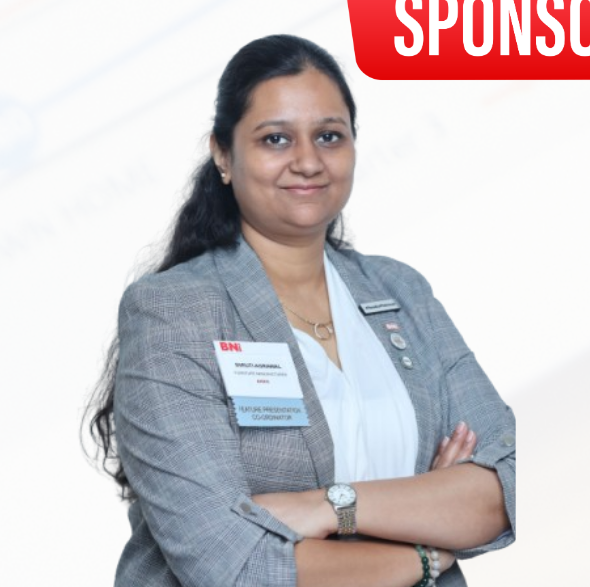
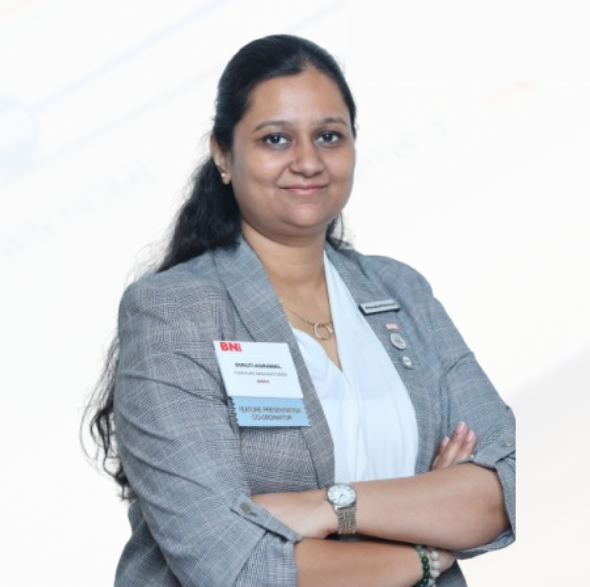
f

Changed region(s): [[0.5797, 0.0, 1.0, 0.1533]]

diff --git a/src/app/teams/[team]/TeamPageClient.tsx b/src/app/teams/[team]/TeamPageClient.tsx
@@ -421,46 +421,50 @@ export default function TeamPage({ params }: { params: Promise<{ team: string }>
             {/* The Large Caption Card (Owner) */}
             <div className="lg:col-span-1 lg:row-span-2 glass-card border border-white/10 bg-white/[0.02] relative overflow-hidden group hover:border-white/20 transition-all duration-500 hover:shadow-[0_20px_60px_rgba(0,0,0,0.5)] flex flex-col">
               {/* Dynamic top gradient bar */}
-              <div className="absolute top-0 left-0 w-full h-1" style={{ background: team.color, boxShadow: `0 0 20px ${team.color}` }} />
-              
+              <div className="absolute top-0 left-0 w-full h-1 z-20" style={{ background: team.color, boxShadow: `0 0 20px ${team.color}` }} />
+
+              {/* Full-size portrait image (matches source aspect ratio so nothing gets cropped) */}
+              <div className="relative w-full aspect-[4/5] overflow-hidden flex-shrink-0">
+                {team.owner.image ? (
+                  <Image src={team.owner.image} alt={team.owner.name} fill sizes="(max-width: 1024px) 100vw, 25vw" className="object-cover object-top group-hover:scale-105 transition-transform duration-700" />
+                ) : (
+                  <div className="absolute inset-0 flex items-center justify-center" style={{ background: `${team.color}15` }}>
+                    <span className="font-cinzel text-7xl font-light text-white/90 drop-shadow-[0_0_15px_rgba(255,255,255,0.3)]">
+                      {team.owner.name.split(" ").map(n => n[0]).join("")}
+                    </span>
+                  </div>
+                )}
+
+                {/* Small Owner Tag overlaid at the top of the image */}
+                <div className="absolute top-6 left-1/2 -translate-x-1/2 font-montserrat text-[9px] font-bold tracking-[0.3em] text-white/70 uppercase flex items-center gap-3 z-10">
+                  <div className="w-8 h-px bg-white/40" />
+                  Team Owner
+                  <div className="w-8 h-px bg-white/40" />
+                </div>
+
+                {/* Fade into card body so the pill + text below sit on a clean surface */}
+                <div className="absolute inset-x-0 bottom-0 h-20 bg-gradient-to-t from-[#0B1120] via-[#0B1120]/40 to-transparent pointer-events-none" />
+
+                {/* Owner Pill straddling the image / body boundary */}
+                <div className="absolute -bottom-3 left-1/2 -translate-x-1/2 bg-[#050B0A] border px-4 py-1.5 rounded-full z-20 shadow-[0_5px_15px_rgba(0,0,0,0.8)]" style={{ borderColor: team.color }}>
+                  <span className="font-montserrat text-[9px] font-bold tracking-[0.25em] uppercase whitespace-nowrap" style={{ color: team.color }}>Owner</span>
+                </div>
+              </div>
+
               {/* Ambient Glow */}
               <div className="absolute inset-0 opacity-10 group-hover:opacity-20 transition-opacity duration-500 pointer-events-none" style={{ background: `radial-gradient(circle at 50% 30%, ${team.color}, transparent 70%)` }} />
-              
-              <div className="p-8 flex-1 flex flex-col items-center text-center relative z-10">
-                {/* Small Owner Tag at the very top */}
-                <div className="font-montserrat text-[9px] font-bold tracking-[0.3em] text-white/40 mb-12 uppercase flex items-center gap-3">
-                  <div className="w-8 h-px bg-white/20" />
-                  Team Owner
-                  <div className="w-8 h-px bg-white/20" />
-                </div>
-                
-                {/* Avatar */}
-                <div className="w-48 h-48 rounded-full mx-auto mb-10 border border-white/20 p-1.5 relative group-hover:scale-105 transition-transform duration-500">
-                  <div className="w-full h-full rounded-full overflow-hidden relative shadow-inner" style={{ background: `${team.color}15`, boxShadow: `inset 0 0 30px ${team.color}40` }}>
-                    {team.owner.image ? (
-                      <Image src={team.owner.image} alt={team.owner.name} fill sizes="192px" className="object-cover object-top" />
-                    ) : (
-                      <div className="absolute inset-0 flex items-center justify-center font-cinzel text-6xl font-light text-white/90 drop-shadow-[0_0_15px_rgba(255,255,255,0.3)]">
-                        {team.owner.name.split(" ").map(n => n[0]).join("")}
-                      </div>
-                    )}
-                  </div>
-                  {/* Owner Pill on Avatar */}
-                  <div className="absolute -bottom-3 left-1/2 -translate-x-1/2 bg-[#050B0A] border px-4 py-1.5 rounded-full z-20 shadow-[0_5px_15px_rgba(0,0,0,0.8)]" style={{ borderColor: team.color }}>
-                    <span className="font-montserrat text-[9px] font-bold tracking-[0.25em] uppercase whitespace-nowrap" style={{ color: team.color }}>Owner</span>
-                  </div>
-                </div>
-                
+
+              <div className="px-8 pb-8 pt-8 flex-1 flex flex-col items-center text-center relative z-10">
                 {/* Info */}
                 <h3 className="font-cinzel text-white text-3xl mb-3 group-hover:text-white transition-colors drop-shadow-md">{team.owner.name}</h3>
                 <div className="font-montserrat text-[10px] uppercase tracking-[0.2em] mb-8" style={{ color: team.color }}>{team.owner.company.name}</div>
-                
+
                 <div className="w-full h-px bg-gradient-to-r from-transparent via-white/15 to-transparent mb-8" />
-                
+
                 <p className="font-montserrat text-white/50 text-xs italic leading-[1.8] mb-auto px-4">
                   "{team.owner.quote}"
                 </p>
-                
+
                 <Link href={`/owners/${team.owner.id}`} className="mt-10 inline-flex items-center gap-3 font-montserrat text-[10px] uppercase tracking-[0.2em] text-white hover:text-white/70 transition-colors bg-white/5 hover:bg-white/10 px-6 py-3 rounded-full border border-white/10 group-hover:border-white/30">
                   View Full Profile <ChevronRight className="w-3 h-3" />
                 </Link>

diff --git a/src/app/team-owners/page.tsx b/src/app/team-owners/page.tsx
@@ -1,10 +1,11 @@
 "use client";
 import { useEffect, useRef } from "react";
+import Image from "next/image";
 import gsap from "gsap";
 import { ScrollTrigger } from "gsap/ScrollTrigger";
 import SplitType from "split-type";
 import { teams } from "@/lib/data";
-import { Quote, Briefcase, Building2, MapPin, Users, Target } from "lucide-react";
+import { Quote, Briefcase, Building2, MapPin, Target } from "lucide-react";
 
 gsap.registerPlugin(ScrollTrigger);
 
@@ -20,6 +21,8 @@ export default function TeamOwnersPage() {
           opacity: 0, y: 50, rotateX: -90, stagger: 0.05, duration: 1.2, ease: "back.out(1.5)"
         });
       }
+
+      gsap.from(".h-title-owners", { opacity: 0, y: 30, duration: 0.9, ease: "back.out(1.4)", delay: 0.3 });
 
       gsap.from(".owner-card", {
         scrollTrigger: { trigger: ".owners-grid", start: "top 80%" },
@@ -79,9 +82,9 @@ export default function TeamOwnersPage() {
              <div className="w-1.5 h-1.5 rounded-full bg-[#D4AF37] animate-pulse" />
              <span className="font-montserrat text-[#D4AF37]/90 text-[9px] font-bold tracking-[0.4em] uppercase">League Visionaries</span>
           </div>
-          <h1 ref={titleRef} className="font-cinzel font-bold text-white text-5xl md:text-7xl mb-6 tracking-wider uppercase leading-tight" style={{ clipPath: 'polygon(0 0, 100% 0, 100% 100%, 0% 100%)' }}>
-            The Team<br/>
-            <span className="text-transparent bg-clip-text bg-gradient-to-r from-[#D4AF37] via-[#FFF3B0] to-[#AA7C11]">
+          <h1 className="font-cinzel font-bold text-white text-5xl md:text-7xl mb-6 tracking-wider uppercase leading-tight" style={{ clipPath: 'polygon(0 0, 100% 0, 100% 100%, 0% 100%)' }}>
+            <span ref={titleRef}>The Team</span><br/>
+            <span className="h-title-owners text-transparent bg-clip-text bg-gradient-to-r from-[#D4AF37] via-[#FFF3B0] to-[#AA7C11]">
               Owners
             </span>
           </h1>
@@ -106,11 +109,15 @@ export default function TeamOwnersPage() {
                   {/* Color Accent Line */}
                   <div className="absolute left-0 top-0 bottom-0 w-1.5" style={{ backgroundColor: team.color }} />
                   {/* Background Glow */}
-                  <div className="absolute inset-0 opacity-20 transition-opacity duration-500 group-hover:opacity-40" style={{ background: `radial-gradient(circle at 50% 50%, ${team.color}, transparent 60%)` }} />
-                  {/* User Placeholder Icon */}
-                  <div className="w-32 h-32 rounded-full border border-white/10 bg-white/5 flex items-center justify-center backdrop-blur-sm relative z-10">
-                    <Users className="w-12 h-12 text-white/20" />
-                  </div>
+                  <div className="absolute inset-0 opacity-20 transition-opacity duration-500 group-hover:opacity-40 pointer-events-none" style={{ background: `radial-gradient(circle at 50% 50%, ${team.color}, transparent 60%)` }} />
+                  {/* Owner Photo */}
+                  {team.owner.image ? (
+                    <Image src={team.owner.image} alt={team.owner.name} fill sizes="(max-width: 1024px) 100vw, 40vw" className="object-cover object-top relative z-10 group-hover:scale-105 transition-transform duration-700" />
+                  ) : (
+                    <div className="w-32 h-32 rounded-full border border-white/10 bg-white/5 flex items-center justify-center backdrop-blur-sm relative z-10">
+                      <span className="font-cinzel text-4xl font-light text-white/30">{team.owner.name.split(" ").map(n => n[0]).join("")}</span>
+                    </div>
+                  )}
                 </div>
 
                 {/* Right Side: Content */}
@@ -133,7 +140,7 @@ export default function TeamOwnersPage() {
                       {team.owner.name.toUpperCase()}
                     </h2>
                     <div className="font-montserrat text-sm tracking-widest uppercase" style={{ color: team.color }}>
-                      {team.fullName} - {team.name}
+                      {team.fullName}
                     </div>
                   </div>
 

diff --git a/src/app/blog/page.tsx b/src/app/blog/page.tsx
@@ -6,7 +6,6 @@ import { ArrowRight, BookOpen, PenLine, Tag } from "lucide-react";
 import { blogPosts, blogCategories, teams } from "@/lib/data";
 import gsap from "gsap";
 import { ScrollTrigger } from "gsap/ScrollTrigger";
-import SplitType from "split-type";
 import PageHero from "@/components/PageHero";
 
 gsap.registerPlugin(ScrollTrigger);
@@ -24,12 +23,10 @@ export default function BlogPage() {
 
   useEffect(() => {
     const ctx = gsap.context(() => {
-      const title = new SplitType(".h-title-split", { types: "chars" });
-
       const tl = gsap.timeline({ defaults: { ease: "power3.out" } });
-      tl.from(".h-badge",   { opacity: 0, y: -20, duration: 0.8 })
-        .from(title.chars,  { opacity: 0, y: 50, stagger: 0.05, duration: 0.8, ease: "back.out(1.4)" }, "-=0.4")
-        .from(".h-sub",     { opacity: 0, y: 20, duration: 0.8 }, "-=0.6");
+      tl.from(".h-badge",         { opacity: 0, y: -20, duration: 0.8 })
+        .from(".h-title-gradient", { opacity: 0, y: 40, duration: 0.9, ease: "back.out(1.4)" }, "-=0.4")
+        .from(".h-sub",           { opacity: 0, y: 20, duration: 0.8 }, "-=0.6");
 
       gsap.utils.toArray<Element>(".sr").forEach((el) => {
         gsap.fromTo(el,
@@ -52,7 +49,7 @@ export default function BlogPage() {
     <div ref={containerRef} className="pt-24 bg-[#000000] min-h-screen overflow-x-hidden">
 
       {/* ── HERO ── */}
-      <PageHero backgroundImage="/images/luxury_boardroom.png" layout="centered" className="min-h-[65vh] justify-center px-6 sm:px-10 lg:px-16 py-16 sm:py-28">
+      <PageHero backgroundImage="/images/hero_arena.png" layout="centered" className="min-h-[65vh] justify-center px-6 sm:px-10 lg:px-16 py-16 sm:py-28">
         <div className="max-w-4xl mx-auto text-center relative z-10">
           <div className="h-badge inline-flex items-center gap-3 mb-8 relative px-5 py-2.5">
             <div className="absolute inset-0 rounded-full border border-[#D4AF37]/20 bg-[#D4AF37]/6 backdrop-blur-xl" />
@@ -63,7 +60,7 @@ export default function BlogPage() {
           <h1 className="font-cinzel font-bold text-white mb-8 leading-none">
             <span className="block font-montserrat text-white/55 text-xs sm:text-sm tracking-[0.5em] uppercase mb-2">The Arena</span>
             <span
-              className="h-title-split block"
+              className="h-title-gradient block"
               style={{
                 fontSize: "clamp(64px, 16vw, 160px)",
                 background: "linear-gradient(135deg, #F3E5AB 0%, #D4AF37 40%, #C9921A 70%, #F0D060 100%)",

diff --git a/src/app/rules/page.tsx b/src/app/rules/page.tsx
@@ -17,7 +17,6 @@ import {
 } from "lucide-react";
 import gsap from "gsap";
 import { ScrollTrigger } from "gsap/ScrollTrigger";
-import SplitType from "split-type";
 
 gsap.registerPlugin(ScrollTrigger);
 
@@ -47,12 +46,11 @@ export default function RulesPage() {
 
   useEffect(() => {
     const ctx = gsap.context(() => {
-      const title = new SplitType(".h-title-split", { types: "chars" });
       const tl = gsap.timeline({ defaults: { ease: "power3.out" } });
-      tl.from(".h-badge",   { opacity: 0, y: -20, duration: 0.8 })
-        .from(title.chars,  { opacity: 0, y: 50, stagger: 0.04, duration: 0.7, ease: "back.out(1.4)" }, "-=0.4")
-        .from(".h-sub",     { opacity: 0, y: 20, duration: 0.8 }, "-=0.6")
-        .from(".h-links",   { opacity: 0, y: 20, duration: 0.8 }, "-=0.6");
+      tl.from(".h-badge",          { opacity: 0, y: -20, duration: 0.8 })
+        .from(".h-title-gradient", { opacity: 0, y: 40, duration: 0.9, ease: "back.out(1.4)" }, "-=0.4")
+        .from(".h-sub",            { opacity: 0, y: 20, duration: 0.8 }, "-=0.6")
+        .from(".h-links",          { opacity: 0, y: 20, duration: 0.8 }, "-=0.6");
 
       // Scroll reveals
       gsap.utils.toArray<Element>(".sr").forEach((el) => {
@@ -100,7 +98,7 @@ export default function RulesPage() {
           <h1 className="font-cinzel font-bold text-white mb-8 leading-none">
             <span className="block text-white/55 font-montserrat text-xs sm:text-sm tracking-[0.5em] uppercase mb-2">Tournament</span>
             <span
-              className="h-title-split block"
+              className="h-title-gradient block"
               style={{
                 fontSize: "clamp(52px, 13vw, 130px)",
                 background: "linear-gradient(135deg, #F3E5AB 0%, #D4AF37 40%, #C9921A 70%, #F0D060 100%)",

diff --git a/src/app/partners/page.tsx b/src/app/partners/page.tsx
@@ -5,7 +5,6 @@ import { ArrowRight, Users, BarChart2, Trophy, Handshake, Megaphone, Target, Glo
 import { partners } from "@/lib/data";
 import gsap from "gsap";
 import { ScrollTrigger } from "gsap/ScrollTrigger";
-import SplitType from "split-type";
 import PageHero from "@/components/PageHero";
 
 gsap.registerPlugin(ScrollTrigger);
@@ -15,11 +14,10 @@ export default function PartnersPage() {
 
   useEffect(() => {
     const ctx = gsap.context(() => {
-      const title = new SplitType(".h-title-split", { types: "chars" });
       const tl = gsap.timeline({ defaults: { ease: "power3.out" } });
-      tl.from(".h-badge",  { opacity: 0, y: -20, duration: 0.8 })
-        .from(title.chars, { opacity: 0, y: 50, stagger: 0.05, duration: 0.7, ease: "back.out(1.4)" }, "-=0.4")
-        .from(".h-sub",    { opacity: 0, y: 20, duration: 0.8 }, "-=0.6");
+      tl.from(".h-badge",          { opacity: 0, y: -20, duration: 0.8 })
+        .from(".h-title-gradient", { opacity: 0, y: 40, duration: 0.9, ease: "back.out(1.4)" }, "-=0.4")
+        .from(".h-sub",            { opacity: 0, y: 20, duration: 0.8 }, "-=0.6");
 
       // Scroll reveals
       gsap.utils.toArray<Element>(".sr").forEach((el) => {
@@ -60,7 +58,7 @@ export default function PartnersPage() {
           <h1 className="font-cinzel font-bold text-white mb-8 leading-none">
             <span className="block text-white/55 font-montserrat text-xs sm:text-sm tracking-[0.5em] uppercase mb-2">Our</span>
             <span
-              className="h-title-split block"
+              className="h-title-gradient block"
               style={{
                 fontSize: "clamp(56px, 14vw, 140px)",
                 background: "linear-gradient(135deg, #F3E5AB 0%, #D4AF37 40%, #C9921A 70%, #F0D060 100%)",

diff --git a/src/app/points/page.tsx b/src/app/points/page.tsx
@@ -13,7 +13,6 @@ import {
 } from "lucide-react";
 import gsap from "gsap";
 import { ScrollTrigger } from "gsap/ScrollTrigger";
-import SplitType from "split-type";
 import PageHero from "@/components/PageHero";
 
 gsap.registerPlugin(ScrollTrigger);
@@ -176,11 +175,10 @@ export default function PointsPage() {
 
   useEffect(() => {
     const ctx = gsap.context(() => {
-      const title = new SplitType(".h-title-split", { types: "chars" });
       const tl = gsap.timeline({ defaults: { ease: "power3.out" } });
-      tl.from(".h-badge", { opacity: 0, y: -20, duration: 0.8 })
-        .from(title.chars, { opacity: 0, y: 50, stagger: 0.04, duration: 0.7, ease: "back.out(1.4)" }, "-=0.4")
-        .from(".h-sub",   { opacity: 0, y: 20, duration: 0.8 }, "-=0.6");
+      tl.from(".h-badge",          { opacity: 0, y: -20, duration: 0.8 })
+        .from(".h-title-gradient", { opacity: 0, y: 40, duration: 0.9, ease: "back.out(1.4)" }, "-=0.4")
+        .from(".h-sub",            { opacity: 0, y: 20, duration: 0.8 }, "-=0.6");
 
       gsap.utils.toArray<Element>(".sr").forEach((el) => {
         gsap.fromTo(el,
@@ -214,7 +212,7 @@ export default function PointsPage() {
           <h1 className="font-cinzel font-bold text-white mb-8 leading-none">
             <span className="block text-white/55 font-montserrat text-xs sm:text-sm tracking-[0.5em] uppercase mb-2">Scoring</span>
             <span
-              className="h-title-split block"
+              className="h-title-gradient block"
               style={{
                 fontSize: "clamp(52px, 13vw, 130px)",
                 background: "linear-gradient(135deg, #F3E5AB 0%, #D4AF37 40%, #C9921A 70%, #F0D060 100%)",

diff --git a/src/app/gallery/page.tsx b/src/app/gallery/page.tsx
@@ -6,7 +6,6 @@ import { ArrowRight, Camera, Clock } from "lucide-react";
 import gsap from "gsap";
 import { ScrollTrigger } from "gsap/ScrollTrigger";
 import PageHero from "@/components/PageHero";
-import SplitType from "split-type";
 
 gsap.registerPlugin(ScrollTrigger);
 
@@ -30,12 +29,10 @@ export default function GalleryPage() {
 
   useEffect(() => {
     const ctx = gsap.context(() => {
-      const title = new SplitType(".h-title-split", { types: "chars" });
-
       const tl = gsap.timeline({ defaults: { ease: "power3.out" } });
-      tl.from(".h-badge", { opacity: 0, y: -20, duration: 0.8 })
-        .from(title.chars, { opacity: 0, y: 40, stagger: 0.04, duration: 0.8, ease: "back.out(1.4)" }, "-=0.4")
-        .from(".h-sub", { opacity: 0, y: 20, duration: 0.8 }, "-=0.6");
+      tl.from(".h-badge",          { opacity: 0, y: -20, duration: 0.8 })
+        .from(".h-title-gradient", { opacity: 0, y: 40, duration: 0.9, ease: "back.out(1.4)" }, "-=0.4")
+        .from(".h-sub",            { opacity: 0, y: 20, duration: 0.8 }, "-=0.6");
 
       gsap.utils.toArray<Element>(".sr").forEach((el) => {
         gsap.fromTo(el,
@@ -68,7 +65,7 @@ export default function GalleryPage() {
 
           <h1 className="font-cinzel font-bold text-white mb-8 leading-none">
             <span
-              className="h-title-split block"
+              className="h-title-gradient block"
               style={{
                 fontSize: "clamp(56px, 14vw, 140px)",
                 background: "linear-gradient(135deg, #F3E5AB 0%, #D4AF37 40%, #C9921A 70%, #F0D060 100%)",

diff --git a/src/app/about/page.tsx b/src/app/about/page.tsx
@@ -90,7 +90,7 @@ export default function AboutPage() {
       {/* ═══════════════════════════════════
           HERO
       ═══════════════════════════════════ */}
-      <PageHero backgroundImage="/images/luxury_boardroom.png" layout="left" className="min-h-[90vh] px-6 sm:px-10 lg:px-16">
+      <PageHero backgroundImage="/images/hero_arena.png" layout="left" className="min-h-[90vh] px-6 sm:px-10 lg:px-16">
         <div className="max-w-7xl mx-auto relative z-10 w-full grid grid-cols-1 lg:grid-cols-12 gap-12 items-center py-20">
 
           {/* Left copy */}
@@ -151,7 +151,7 @@ export default function AboutPage() {
 
               {/* Image inside card */}
               <div className="relative w-full h-44 mb-8 overflow-hidden rounded-sm">
-                <Image fill src="/images/hero_arena.png" alt="Championship Arena" className="object-cover" sizes="400px" style={{ filter: "brightness(0.7) contrast(1.1)" }} />
+                <Image fill src="/images/hero_trophy_stadium.png" alt="Championship Arena" className="object-cover" sizes="400px" style={{ filter: "brightness(0.7) contrast(1.1)" }} />
                 <div className="absolute inset-0 bg-gradient-to-t from-black/60 to-transparent" />
                 <div className="absolute bottom-4 left-4">
                   <div className="font-montserrat text-[7px] uppercase tracking-[0.3em] text-[#D4AF37]/70 mb-1">The Stage</div>

diff --git a/src/lib/data.ts b/src/lib/data.ts
@@ -1,4 +1,4 @@
-import { Team, WeeklyEvent, SpecialEvent, Partner, BlogPost, Commissioner, RuleSection, ScheduleEvent } from "@/types";
+import { Team, WeeklyEvent, SpecialEvent, Partner, BlogPost, RuleSection, ScheduleEvent } from "@/types";
 
 export const teams: Team[] = [
   {
@@ -411,15 +411,6 @@ export const blogPosts: BlogPost[] = [
     category: "Execution",
     image: "/images/blog-growth.png",
   },
-];
-
-export const commissioners: Commissioner[] = [
-  { name: "R. K. Sharma", role: "Chief Commissioner", desc: "Upholding integrity and excellence." },
-  { name: "Neha Verma", role: "Operations Commissioner", desc: "Ensuring smooth operations and seamless execution." },
-  { name: "Vikram Singh", role: "Compliance Commissioner", desc: "Ensuring fair play and rule adherence." },
-  { name: "Arjun Mehta", role: "Engagement Commissioner", desc: "Building connections and growing the league community." },
-  { name: "Pooja Iyer", role: "Growth Commissioner", desc: "Driving growth, partnerships and opportunities." },
-  { name: "Karan Malhotra", role: "Technology Commissioner", desc: "Leveraging technology for transparency and innovation." },
 ];
 
 export const tournamentRules: RuleSection[] = [

diff --git a/src/app/schedule/page.tsx b/src/app/schedule/page.tsx
@@ -330,10 +330,10 @@ export default function SchedulePage() {
               <h3 className="font-cinzel tracking-widest text-white/60 text-xs mb-4 uppercase">At a Glance</h3>
               <div className="space-y-3">
                 {[
-                  { l: "Total Events", v: "0" },
-                  { l: "Completed", v: "0" },
-                  { l: "In-Progress", v: "0" },
-                  { l: "Upcoming", v: "0" },
+                  { l: "Total Events", v: String(scheduleEvents.length) },
+                  { l: "Completed", v: String(scheduleEvents.filter(e => e.status === "completed").length) },
+                  { l: "In-Progress", v: String(scheduleEvents.filter(e => e.status === "in-progress").length) },
+                  { l: "Upcoming", v: String(scheduleEvents.filter(e => e.status === "upcoming").length) },
                 ].map((s) => (
                   <div key={s.l} className="flex items-center justify-between py-2 border-b border-white/5 last:border-0">
                     <span className="font-montserrat text-white/60 text-[10px] uppercase tracking-widest">{s.l}</span>

diff --git a/src/components/PageHero.tsx b/src/components/PageHero.tsx
@@ -70,6 +70,14 @@ export default function PageHero({
         <div className="absolute inset-0" style={{
           background: "linear-gradient(270deg, rgba(7,12,28,0.45) 0%, transparent 30%)"
         }} />
+        {/* Centered layout: title sits in the middle, not the left — needs its own dark
+            pocket so it stays legible over bright/busy backgrounds instead of relying
+            on the left-biased gradient above */}
+        {layout === "centered" && (
+          <div className="absolute inset-0" style={{
+            background: "radial-gradient(ellipse 70% 80% at 50% 45%, rgba(5,8,20,0.78) 0%, rgba(5,8,20,0.55) 40%, rgba(5,8,20,0.2) 65%, transparent 80%)"
+          }} />
+        )}
       </div>
 
       {/* ── SUBTLE GOLD RAYS from top-right ── z-[2] */}
